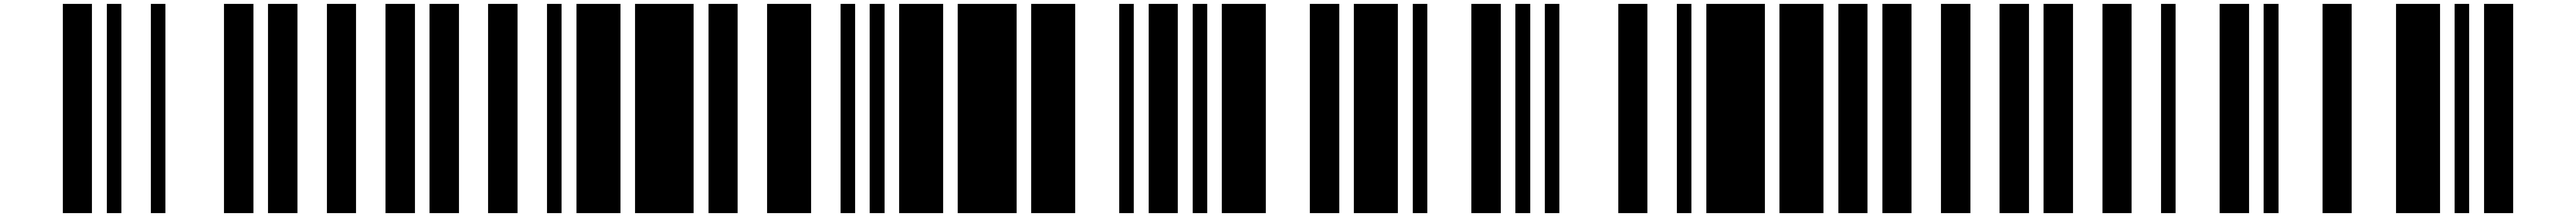
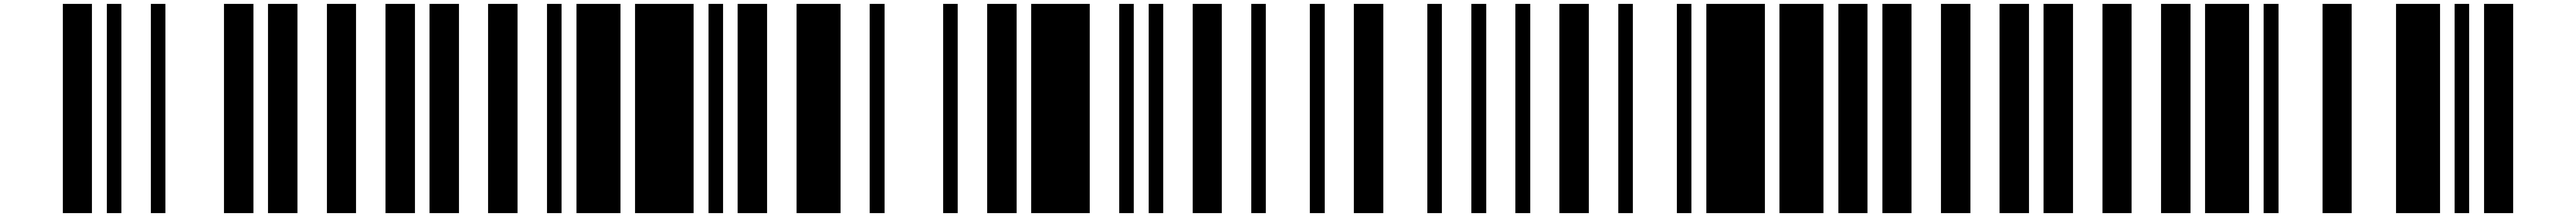
Fixes

Changed region(s): [[0.2803, 0.0, 0.654, 0.9902], [0.8408, 0.0, 0.872, 0.9902]]

diff --git a/client/src/components/InvoicePDFSection2.tsx b/client/src/components/InvoicePDFSection2.tsx
@@ -5,15 +5,13 @@ import {
     Image,
     StyleSheet,
 } from '@react-pdf/renderer';
-import { baseFont, commonStyles } from './PDFStyles';
+import { baseFont } from './PDFStyles';
 import { BASE_URL } from './ReportProcessor';
-import InvoicePDFSection3 from './InvoicePDFSection3';
 
 const styles = StyleSheet.create({
     diagramImage: {
         width: 90,
         height: 80,
-        // marginVertical: 8,
     },
     imageWrapper: {
         alignItems: 'center',
@@ -23,11 +21,10 @@ const styles = StyleSheet.create({
     fieldLabel: {
         fontFamily: baseFont,
         fontWeight: "normal",
-        // fontSize: 9,
         fontSize: 8,
         color: "#333",
-        // fontWeight: "600",
-        // letterSpacing: "-0.40",
+        letterSpacing: "-0.20",
+
     },
     fieldValue: {
         fontFamily: baseFont,
@@ -35,19 +32,17 @@ const styles = StyleSheet.create({
         fontSize: 8,
         color: "#000",
         textAlign: "right",
-        // letterSpacing: "-0.40",
+        letterSpacing: "-0.20",
+
     },
     separator: {
         flexGrow: 1,
         borderBottom: "1px dotted #999",
-        // marginHorizontal: 4,
-        // height: 10,
     },
     fieldRow: {
         flexDirection: "row",
-        // alignItems: "baseline",
-        // marginBottom: "3.5px",
-        marginTop: "2px",
+        // marginTop: "2px",
+        marginRight: '2.5px',
         width: "100%",
     },
     ReportDate: {
@@ -55,9 +50,7 @@ const styles = StyleSheet.create({
         fontWeight: "normal",
         fontSize: 11,
         color: "#333",
-        // marginBottom: 5,
         marginTop: '15px',
-        // letterSpacing: "-0.40",
     },
 });
 
@@ -76,38 +69,124 @@ export default function InvoicePDFSection2({ data }: any) {
     const orCode = Math.floor(10 + Math.random() * 90); // Ensures 2-digit number
 
     return (
-        <View>
-
+        <View style={{
+            // marginTop: 10,
+            // alignItems: "center",
+        }}>
             <View>
-                {barcode12Number && (
-                    <Image src={`${BASE_URL}/files/barcode12.png`} style={commonStyles.barcodeImage} />
-                )}
-                <Text style={[styles.ReportDate]}>{barcode12Number}</Text>
+                <Text
+                    style={{
+                        fontFamily: baseFont,
+                        fontWeight: "normal",
+                        fontSize: 7,
+                        color: "#333",
+                        marginBottom: -1
+                    }}
+                >
+                    {data?.Address || 'Plot No C-70'}
+                </Text>
+                <Text
+                    style={{
+                        fontFamily: baseFont,
+                        fontWeight: "normal",
+                        fontSize: 7,
+                        color: "#333",
+                        marginBottom: -1
+                    }}
+                >
+                    {data?.CityState || 'Mumbai, Gujarat,'}
+                </Text>
+                <Text
+                    style={{
+                        fontFamily: baseFont,
+                        fontWeight: "normal",
+                        fontSize: 7,
+                        color: "#333",
+                    }}
+                >
+                    {data?.country || 'India'}
+                </Text>
+            </View>
+            {/* <View style={{
+                flexDirection: "column",
+                width: 143,
+                height: 50,
+                backgroundColor: 'red',
+                marginTop: -5,
+                marginRight: 7,
+                padding: 0, */}
+            {/* // marginBottom: '33px', */}
+            {/* // marginLeft: 144, */}
+            {/* }}> */}
+            {/* <Image
+                    src={`${BASE_URL}/files/barcode12.png`}
+                    style={{
+                        width: "100%",
+                        height: "100%",
+                        objectFit: "contain",
+                    }}
+                /> */}
+            {/* <Text style={{ */}
+            {/* marginLeft: 1, */}
+            {/* // marginTop: '0', */}
+            {/* marginBottom: 20, */}
+            {/* fontSize: "8.80", */}
+            {/* fontFamily: baseFont, */}
+            {/* color: "#000", */}
+            {/* }}> */}
+            {/* {barcode12Number} */}
+            {/* </Text> */}
+            {/* </View> */}
+
+            <View style={{
+                width: 150, // or whatever fixed size works best
+                height: 30,
+                // backgroundColor: 'red',
+                justifyContent: 'flex-start',
+                // alignItems: 'center',
+                // alignSelf: 'center' // optional: center horizontally in parent
+            }}>
+                <Image
+                    src={`${BASE_URL}/files/barcode12.png`}
+                    style={{
+                        width: "100%",
+                        height: "100%",
+                        objectFit: "contain",
+                    }}
+                />
+            </View>
+            <View style={{ marginTop: '-12.5px', }}>
+                <Text style={{
+                    marginLeft: "-1.9px",
+                    // marginTop: '0',
+                    fontSize: 11,
+                    fontFamily: baseFont,
+                    color: "#000",
+                }}>
+                    {barcode12Number}
+                </Text>
             </View>
 
             <View style={{
                 flexDirection: "row",
                 alignItems: "baseline",
-                // marginBottom: "3.5px",
-                // marginTop: "2px",
+                marginTop: '1px',
                 width: "100%",
             }}>
-                <Text style={styles.fieldLabel}>JOB:</Text>
+                <Text style={[styles.fieldLabel, { marginRight: 6 }]}>JOB:</Text>
                 <Text style={styles.fieldLabel}>{jobNumber}</Text>
                 <View style={{
                     flexGrow: 1,
-                    //  marginHorizontal: 4,
                     height: 8,
                 }} />
                 <Text style={styles.fieldLabel}>{orCode}</Text>
             </View>
 
             <View style={{ height: '9px' }} />
-            {/* <Text>{data.reportDate  'February 12, 2024'}</Text> */}
             <Text style={[styles.fieldLabel, {}]}>{data.ReportDate}</Text>
 
 
-            <View style={[styles.fieldRow, { marginTop: '-1px' }]}>
+            <View style={[styles.fieldRow, { marginBottom: 2 }]}>
                 <Text style={styles.fieldLabel}>Report Type</Text>
                 <View style={styles.separator} />
                 <Text style={styles.fieldValue}>{data.ReportType}</Text>
@@ -119,24 +198,24 @@ export default function InvoicePDFSection2({ data }: any) {
                 <Text style={styles.fieldValue}>{report.GIAReportNumber}</Text>
             </View>
 
-            <View style={[styles.fieldRow, {}]}>
+            <View style={[styles.fieldRow, { marginBottom: '1.4px' }]}>
                 <Text style={styles.fieldLabel}>Shape</Text>
                 <View style={styles.separator} />
                 <Text style={styles.fieldValue}>{report.ShapeandCuttingStyle}</Text>
             </View>
 
-            <View style={[styles.fieldRow, { marginTop: '-1px' }]}>
+            <View style={[styles.fieldRow, { marginBottom: '1.4px' }]}>
                 <Text style={styles.fieldLabel}>Measurements</Text>
                 <View style={styles.separator} />
                 <Text style={styles.fieldValue}>{report.Measurements}</Text>
             </View>
-            <View style={[styles.fieldRow, {}]}>
+            <View style={[styles.fieldRow, { marginBottom: 1 }]}>
                 <Text style={styles.fieldLabel}>Carat Weight</Text>
                 <View style={styles.separator} />
                 <Text style={styles.fieldValue}>{grading.CaratWeight}</Text>
             </View>
 
-            <View style={[styles.fieldRow, { marginTop: '-1px' }]}>
+            <View style={[styles.fieldRow, { marginBottom: 1 }]}>
                 <Text style={styles.fieldLabel}>Color</Text>
                 <View style={styles.separator} />
                 <Text style={styles.fieldValue}>{grading.ColorGrade}</Text>
@@ -148,13 +227,13 @@ export default function InvoicePDFSection2({ data }: any) {
                 <Text style={styles.fieldValue}>{grading.ClarityGrade}</Text>
             </View>
 
-            <View style={[styles.fieldRow, {}]}>
+            <View style={[styles.fieldRow, { marginBottom: 1 }]}>
                 <Text style={styles.fieldLabel}>Cut</Text>
                 <View style={styles.separator} />
                 <Text style={styles.fieldValue}>{grading.CutGrade}</Text>
             </View>
 
-            <Text style={commonStyles.paragraphText}>Proportions:</Text>
+            <Text style={[styles.fieldLabel, { marginRight: 2 }]}>Proportions:</Text>
             {proportionsImage && (
                 <View style={styles.imageWrapper}>
                     <Image
@@ -164,48 +243,35 @@ export default function InvoicePDFSection2({ data }: any) {
                 </View>
             )}
 
-            <View style={[styles.fieldRow, { marginTop: '3px', }]}>
+            <View style={[styles.fieldRow, { marginTop: '5.4px', marginBottom: 1 }]}>
                 <Text style={styles.fieldLabel}>Polish</Text>
                 <View style={styles.separator} />
                 <Text style={styles.fieldValue}>{additional.polish}</Text>
             </View>
 
-            <View style={[styles.fieldRow, {}]}>
+            <View style={[styles.fieldRow, { marginBottom: 1 }]}>
                 <Text style={styles.fieldLabel}>Symmetry</Text>
                 <View style={styles.separator} />
                 <Text style={styles.fieldValue}>{additional.symmetry}</Text>
             </View>
 
-            <View style={[styles.fieldRow, {}]}>
+            <View style={[styles.fieldRow, { marginBottom: 1 }]}>
                 <Text style={styles.fieldLabel}>Fluorescence</Text>
                 <View style={styles.separator} />
                 <Text style={styles.fieldValue}>{additional.fluorescence}</Text>
             </View>
 
             <Text style={styles.fieldLabel}>Clarity Characteristics: Pinpoint, Feather</Text>
-            {/* <Text style={styles.fieldLabel}>Comments: Internal graining is not shown.Inscription(s):GIA2487549646</Text> */}
 
-            {/* 
-            <View
-                style={{
-                    width: 300,
-                    height: 200,
-                    alignSelf: 'center',
-                    marginTop: 40,
-                    overflow: 'hidden',
-                }}
-            >
-                <View
-                    style={{
-                        transform: 'rotate(-90deg)',
-                        width: 200,
-                        height: 300,
-                    }}
-                >
-                    <InvoicePDFSection3 data={data} />
-                </View>
-            </View> */}
-            <View style={{ flexDirection: "row", justifyContent: "center", alignItems: "center", marginTop: 75 }}>
+            <View style={[styles.fieldRow, { marginBottom: '2px' }]}>
+                <Text style={styles.fieldLabel}>Inscription(s): </Text>
+                <Text style={[styles.fieldLabel, { marginLeft: "1px" }]}>{additional.inscription}</Text>
+            </View>
+            <View style={[styles.fieldRow]}>
+                <Text style={[styles.fieldValue, { textAlign: 'left' }]}>Comments: </Text>
+                <Text style={[styles.fieldLabel, { marginLeft: '1px' }]}>Internal graining is not shown.</Text>
+            </View>
+            <View style={{ flexDirection: "row", justifyContent: "center", alignItems: "center", marginTop: 55, }}>
                 <Image
                     src={`${BASE_URL}/files/barcode10.png`}
                     style={{
@@ -214,7 +280,14 @@ export default function InvoicePDFSection2({ data }: any) {
                         objectFit: "contain",
                     }}
                 />
-                <Text style={[commonStyles.ReportDate, { marginLeft: 1 }]}>
+                <Text style={{
+                    fontFamily: 'OCR',
+                    fontWeight: "normal",
+                    fontSize: 9,
+                    color: "#333",
+                    marginBottom: '4.9px'
+                    , marginLeft: '6.6px'
+                }}>
                     {data.BARCODE10.number}
                 </Text>
             </View>

diff --git a/client/src/components/InvoicePDF.tsx b/client/src/components/InvoicePDF.tsx
@@ -101,10 +101,10 @@ export default function InvoicePDF({ data }: { data: any }) {
                 {/* Main content row */}
                 <View style={[styles.contentRow]}>
                     {/* marginTop: '43px' */}
-                    <View style={{ width: '215px', marginTop: '57px', marginLeft: '109px' }}>
+                    <View style={{ width: '215px', marginTop: '42px', marginLeft: '109px' }}>
                         <InvoicePDFSection1 data={data} />
                     </View>
-                    <View style={{ width: '236px', height: '100%', marginLeft: '32px', marginTop: '43px' }}>
+                    <View style={{ width: '236px', height: '100%', marginLeft: '32px', marginTop: '28px' }}>
                         <View>
                             <View>
                                 <InvoicePDFSection4 data={data} />
@@ -132,40 +132,10 @@ export default function InvoicePDF({ data }: { data: any }) {
                             </View>
                         </View>
                     </View>
-                    <View style={{ width: '215px', marginTop: '43px', marginLeft: '21px' }}>
+                    <View style={{ width: '215px', marginTop: '28px', marginLeft: '21px' }}>
                         <InvoicePDFSection5 data={data} />
                     </View>
-                    <View style={{ width: '184px', marginLeft: '34px', marginTop: '8px' }}>
-                        <Text
-                            style={{
-                                fontFamily: baseFont,
-                                fontWeight: "normal",
-                                fontSize: 7,
-                                color: "#333",
-                            }}
-                        >
-                            {data?.Address || 'Base Address: 1234 Diamond Street, Surat, Gujarat, India'}
-                        </Text>
-                        <Text
-                            style={{
-                                fontFamily: baseFont,
-                                fontWeight: "normal",
-                                fontSize: 7,
-                                color: "#333",
-                            }}
-                        >
-                            {data?.CityState || 'Surat, Gujarat,'}
-                        </Text>
-                        <Text
-                            style={{
-                                fontFamily: baseFont,
-                                fontWeight: "normal",
-                                fontSize: 7,
-                                color: "#333",
-                            }}
-                        >
-                            {data?.country || 'India'}
-                        </Text>
+                    <View style={{ width: '184px', marginLeft: '32px', marginTop: '7px' }}>
                         <InvoicePDFSection2 data={data} />
                     </View>
                 </View>
